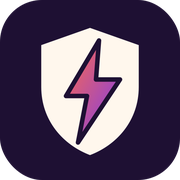
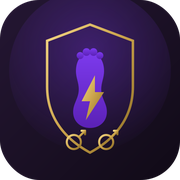
Add files via upload

diff --git a/index.html b/index.html
@@ -20,7 +20,7 @@
 
 <style>
   @import url('https://fonts.googleapis.com/css2?family=Space+Grotesk:wght@500;600;700&family=Inter:wght@400;500;600;700;800&display=swap');
-  html, body { -webkit-text-size-adjust: 100%; overscroll-behavior-y: none; margin: 0; background:#1E1033; }
+  html, body { -webkit-text-size-adjust: 100%; overscroll-behavior-y: none; margin: 0; background:#140C1D; }
   input[type="datetime-local"]::-webkit-calendar-picker-indicator { opacity: 0.7; }
   * { box-sizing: border-box; }
   button { cursor: pointer; font-family: inherit; }
@@ -63,19 +63,28 @@ const C = {
   cream: "#FFF7ED", card: "#FFFFFF",
   slate: "#5C5470", slateLight: "#9891AC", border: "#EDE4D6",
   sun: "#FFD23F", blush: "#FFDCEA", lilac: "#E6D9FF",
+  /* Premium dark/gold jewel-tone palette — used for the app shell and the
+     sign-in / vault screens, echoing the charcoal-and-gold reference mark. */
+  charcoal: "#140C1D", charcoalDeep: "#0D0813", charcoalSoft: "#241833",
+  navy: "#16213E", navyDeep: "#0E1730", plumDeep: "#3B1E63",
+  gold: "#C9A24B", goldLight: "#F4D785", goldDeep: "#8C6C24",
 };
-/* Small confetti of pill/capsule shapes — a nod to the loose pills and
-   contraceptives in the reference photo — used to warm up the entry
-   screens (sign in, vault setup/unlock) instead of a flat dark gradient. */
+/* Small confetti of gold/jewel-tone marks — a bolder, more premium nod to
+   the gender-symbol motif in the reference mark — used on the entry
+   screens (sign in, vault setup/unlock) instead of a flat gradient. */
 function PillConfetti() {
   const pills = [
-    { bg: C.coral, rot: -18 }, { bg: C.violet, rot: 10 }, { bg: C.mint, rot: -6 }, { bg: C.amber, rot: 20 },
+    { bg: "linear-gradient(135deg," + C.goldLight + "," + C.gold + ")", rot: -18 },
+    { bg: "linear-gradient(135deg," + C.violet + "," + C.plumDeep + ")", rot: 10 },
+    { bg: "linear-gradient(135deg," + C.goldLight + "," + C.gold + ")", rot: -6 },
+    { bg: "linear-gradient(135deg," + C.navy + "," + C.navyDeep + ")", rot: 20 },
   ];
   return React.createElement("div", { style: { display: "flex", justifyContent: "center", gap: 10, marginBottom: 18 } },
     pills.map(function (p, i) {
       return React.createElement("div", { key: i, style: {
         width: 30, height: 14, borderRadius: 999, background: p.bg,
-        border: "2px solid " + C.ink, transform: "rotate(" + p.rot + "deg)",
+        border: "1.5px solid " + C.goldDeep, transform: "rotate(" + p.rot + "deg)",
+        boxShadow: "0 2px 6px rgba(0,0,0,0.4)",
       } });
     }));
 }
@@ -259,12 +268,12 @@ function AuthScreen() {
     finally { setBusy(false); }
   };
 
-  return React.createElement("div", { style: { minHeight: "100vh", display: "flex", flexDirection: "column", alignItems: "center", justifyContent: "center", padding: "0 24px", background: "linear-gradient(165deg, " + C.sun + " 0%, " + C.blush + " 45%, " + C.cream + " 100%)", fontFamily: FONT_BODY } },
+  return React.createElement("div", { style: { minHeight: "100vh", display: "flex", flexDirection: "column", alignItems: "center", justifyContent: "center", padding: "0 24px", background: "linear-gradient(150deg, " + C.charcoal + " 0%, " + C.plumDeep + " 55%, " + C.navyDeep + " 100%)", fontFamily: FONT_BODY } },
     React.createElement("div", { style: { width: "100%", maxWidth: MAX_W } },
       React.createElement("div", { style: { textAlign: "center", marginBottom: 24 } },
-        React.createElement("img", { src: "icon-192.png", alt: "AuraShield", style: { width: 76, height: 76, borderRadius: 22, margin: "0 auto 16px", display: "block", border: "3px solid " + C.ink, boxShadow: "4px 4px 0px " + C.ink } }),
-        React.createElement("div", { style: { fontFamily: FONT_DISPLAY, color: C.ink, fontSize: 30, fontWeight: 700 } }, "AuraShield"),
-        React.createElement("div", { style: { fontSize: 14, color: C.slate, marginTop: 8, fontWeight: 600 } }, mode === "signin" ? "Welcome back — let's go" : "Let's set up your private space")),
+        React.createElement("img", { src: "icon-192.png", alt: "AuraShield", style: { width: 76, height: 76, borderRadius: 22, margin: "0 auto 16px", display: "block", border: "3px solid " + C.gold, boxShadow: "0 6px 20px rgba(0,0,0,0.5)" } }),
+        React.createElement("div", { style: { fontFamily: FONT_DISPLAY, color: "#fff", fontSize: 30, fontWeight: 700, letterSpacing: 0.5 } }, "AuraShield"),
+        React.createElement("div", { style: { fontSize: 14, color: C.goldLight, marginTop: 8, fontWeight: 600 } }, mode === "signin" ? "Welcome back — let's go" : "Let's set up your private space")),
       React.createElement(PillConfetti, null),
       React.createElement(Card, { style: { padding: 22 } },
         React.createElement("div", { style: { fontSize: 12, fontWeight: 800, color: C.slate, marginBottom: 6 } }, "EMAIL"),
@@ -274,7 +283,7 @@ function AuthScreen() {
         React.createElement(PassInput, { value: password, onChange: function (e) { setPassword(e.target.value); }, placeholder: "At least 6 characters" }),
         error && React.createElement("div", { style: { fontSize: 13, color: C.coralDeep, marginBottom: 12, fontWeight: 700 } }, error),
         notice && React.createElement("div", { style: { fontSize: 13, color: "#00875F", marginBottom: 12, fontWeight: 700 } }, notice),
-        React.createElement(PrimaryButton, { onClick: submit, disabled: busy || !email || password.length < 6, style: { background: C.coral, border: "2.5px solid " + C.ink, marginTop: 4 } },
+        React.createElement(PrimaryButton, { onClick: submit, disabled: busy || !email || password.length < 6, style: { background: "linear-gradient(135deg," + C.goldLight + "," + C.gold + ")", color: C.charcoalDeep, border: "2.5px solid " + C.goldDeep, marginTop: 4, boxShadow: "0 4px 14px rgba(201,162,75,0.35)" } },
           busy ? "One sec…" : mode === "signin" ? "Sign in" : "Create account"),
         React.createElement("button", { onClick: function () { setMode(mode === "signin" ? "signup" : "signin"); setError(""); setNotice(""); }, style: { width: "100%", textAlign: "center", fontSize: 13, color: C.violetDeep, marginTop: 16, background: "none", border: "none", fontWeight: 700 } },
           mode === "signin" ? "New here? Create an account" : "Already have an account? Sign in"))));
@@ -295,13 +304,13 @@ function VaultSetupScreen(props) {
     try { await props.onCreated(p1); }
     catch (e) { setError(e.message || "Couldn't set up your vault."); setBusy(false); }
   };
-  return React.createElement("div", { style: { minHeight: "100vh", display: "flex", flexDirection: "column", alignItems: "center", justifyContent: "center", padding: "0 24px", background: "linear-gradient(165deg, " + C.lilac + " 0%, " + C.blush + " 55%, " + C.cream + " 100%)", fontFamily: FONT_BODY } },
+  return React.createElement("div", { style: { minHeight: "100vh", display: "flex", flexDirection: "column", alignItems: "center", justifyContent: "center", padding: "0 24px", background: "linear-gradient(150deg, " + C.charcoal + " 0%, " + C.plumDeep + " 55%, " + C.navyDeep + " 100%)", fontFamily: FONT_BODY } },
     React.createElement("div", { style: { width: "100%", maxWidth: MAX_W } },
       React.createElement("div", { style: { textAlign: "center", marginBottom: 20 } },
-        React.createElement("div", { style: { width: 64, height: 64, borderRadius: 18, background: C.coral, display: "flex", alignItems: "center", justifyContent: "center", margin: "0 auto 16px", border: "2.5px solid " + C.ink, boxShadow: "4px 4px 0px " + C.ink } },
-          React.createElement(Icon, { name: "key", size: 28, color: "#fff" })),
-        React.createElement("div", { style: { fontFamily: FONT_DISPLAY, color: C.ink, fontSize: 24, fontWeight: 700 } }, "Lock it down"),
-        React.createElement("div", { style: { fontSize: 14, color: C.slate, marginTop: 10, lineHeight: 1.5, padding: "0 4px", fontWeight: 500 } }, "This passphrase is different from your login. It encrypts everything right here on your device — nobody else, not even the person who built this app, can read your data without it.")),
+        React.createElement("div", { style: { width: 64, height: 64, borderRadius: 18, background: "linear-gradient(135deg," + C.goldLight + "," + C.gold + ")", display: "flex", alignItems: "center", justifyContent: "center", margin: "0 auto 16px", border: "2.5px solid " + C.goldDeep, boxShadow: "0 6px 18px rgba(0,0,0,0.45)" } },
+          React.createElement(Icon, { name: "key", size: 28, color: C.charcoalDeep })),
+        React.createElement("div", { style: { fontFamily: FONT_DISPLAY, color: "#fff", fontSize: 24, fontWeight: 700 } }, "Lock it down"),
+        React.createElement("div", { style: { fontSize: 14, color: C.goldLight, marginTop: 10, lineHeight: 1.5, padding: "0 4px", fontWeight: 500 } }, "This passphrase is different from your login. It encrypts everything right here on your device — nobody else, not even the person who built this app, can read your data without it.")),
       React.createElement(Card, { style: { padding: 22 } },
         React.createElement("div", { style: { fontSize: 12, fontWeight: 800, color: C.slate, marginBottom: 6 } }, "VAULT PASSPHRASE (8+ CHARS)"),
         React.createElement(PassInput, { value: p1, onChange: function (e) { setP1(e.target.value); }, placeholder: "Something only you know" }),
@@ -311,21 +320,21 @@ function VaultSetupScreen(props) {
           React.createElement("span", { style: { width: 22, height: 22, minWidth: 22, borderRadius: 6, background: ack ? C.mint : "#fff", border: "2px solid " + (ack ? C.mint : C.border), display: "flex", alignItems: "center", justifyContent: "center", marginTop: 1 } }, ack && React.createElement(Icon, { name: "check", size: 13, color: "#fff" })),
           React.createElement("span", { style: { fontSize: 12, color: C.slate, lineHeight: 1.5, fontWeight: 500 } }, "I understand there's no reset for this. If I forget it, my data is gone for good.")),
         error && React.createElement("div", { style: { fontSize: 13, color: C.coralDeep, marginBottom: 12, fontWeight: 700 } }, error),
-        React.createElement(PrimaryButton, { onClick: submit, disabled: !canSubmit, style: { background: C.mint, border: "2.5px solid " + C.ink } }, busy ? "Setting up…" : "Create my vault"))));
+        React.createElement(PrimaryButton, { onClick: submit, disabled: !canSubmit, style: { background: "linear-gradient(135deg," + C.goldLight + "," + C.gold + ")", color: C.charcoalDeep, border: "2.5px solid " + C.goldDeep, boxShadow: "0 4px 14px rgba(201,162,75,0.35)" } }, busy ? "Setting up…" : "Create my vault"))));
 }
 function VaultUnlockScreen(props) {
   const [p, setP] = useState("");
-  return React.createElement("div", { style: { minHeight: "100vh", display: "flex", flexDirection: "column", alignItems: "center", justifyContent: "center", padding: "0 24px", background: "linear-gradient(165deg, " + C.lilac + " 0%, " + C.blush + " 55%, " + C.cream + " 100%)", fontFamily: FONT_BODY } },
+  return React.createElement("div", { style: { minHeight: "100vh", display: "flex", flexDirection: "column", alignItems: "center", justifyContent: "center", padding: "0 24px", background: "linear-gradient(150deg, " + C.charcoal + " 0%, " + C.plumDeep + " 55%, " + C.navyDeep + " 100%)", fontFamily: FONT_BODY } },
     React.createElement("div", { style: { width: "100%", maxWidth: MAX_W } },
       React.createElement("div", { style: { textAlign: "center", marginBottom: 24 } },
-        React.createElement("div", { style: { width: 64, height: 64, borderRadius: 18, background: C.violet, display: "flex", alignItems: "center", justifyContent: "center", margin: "0 auto 16px", border: "2.5px solid " + C.ink, boxShadow: "4px 4px 0px " + C.ink } },
-          React.createElement(Icon, { name: "key", size: 28, color: "#fff" })),
-        React.createElement("div", { style: { fontFamily: FONT_DISPLAY, color: C.ink, fontSize: 24, fontWeight: 700 } }, "Welcome back"),
-        React.createElement("div", { style: { fontSize: 14, color: C.slate, marginTop: 8, fontWeight: 500 } }, "Enter your vault passphrase to decrypt on this device.")),
+        React.createElement("div", { style: { width: 64, height: 64, borderRadius: 18, background: "linear-gradient(135deg," + C.goldLight + "," + C.gold + ")", display: "flex", alignItems: "center", justifyContent: "center", margin: "0 auto 16px", border: "2.5px solid " + C.goldDeep, boxShadow: "0 6px 18px rgba(0,0,0,0.45)" } },
+          React.createElement(Icon, { name: "key", size: 28, color: C.charcoalDeep })),
+        React.createElement("div", { style: { fontFamily: FONT_DISPLAY, color: "#fff", fontSize: 24, fontWeight: 700 } }, "Welcome back"),
+        React.createElement("div", { style: { fontSize: 14, color: C.goldLight, marginTop: 8, fontWeight: 500 } }, "Enter your vault passphrase to decrypt on this device.")),
       React.createElement(Card, { style: { padding: 22 } },
         React.createElement(PassInput, { value: p, onChange: function (e) { setP(e.target.value); }, placeholder: "Vault passphrase" }),
         props.error && React.createElement("div", { style: { fontSize: 13, color: C.coralDeep, marginBottom: 12, fontWeight: 700 } }, "Incorrect passphrase."),
-        React.createElement(PrimaryButton, { onClick: function () { props.onUnlock(p); }, disabled: !p || props.busy, style: { background: C.violet, border: "2.5px solid " + C.ink } }, props.busy ? "Unlocking…" : "Unlock"))));
+        React.createElement(PrimaryButton, { onClick: function () { props.onUnlock(p); }, disabled: !p || props.busy, style: { background: "linear-gradient(135deg," + C.goldLight + "," + C.gold + ")", color: C.charcoalDeep, border: "2.5px solid " + C.goldDeep, boxShadow: "0 4px 14px rgba(201,162,75,0.35)" } }, props.busy ? "Unlocking…" : "Unlock"))));
 }
 
 /* ---------------------------------------------------------
@@ -403,6 +412,7 @@ function Dashboard(props) {
   const [pinDraft, setPinDraft] = useState("");
   const [historyOpen, setHistoryOpen] = useState(false);
   const [tab, setTab] = useState("home");
+  const [syncError, setSyncError] = useState("");
 
   useEffect(function () {
     (async function () {
@@ -412,32 +422,78 @@ function Dashboard(props) {
     })();
   }, [userId]);
 
+  // Retries a Supabase write a few times (network hiccups, a token mid
+  // refresh, etc. are transient) before giving up, so a log doesn't
+  // silently fail to reach your account just because of a bad moment of
+  // connectivity — which is what used to make entries look saved in the
+  // app but then not actually be there next time you opened it.
+  const withRetry = useCallback(async function (op, attempts) {
+    const max = attempts || 3;
+    let last = null;
+    for (let i = 0; i < max; i++) {
+      last = await op();
+      if (!last.error) return last;
+      if (i < max - 1) await new Promise(function (res) { setTimeout(res, 600 * (i + 1)); });
+    }
+    return last;
+  }, []);
+
   const persistSettings = useCallback(async function (next) {
+    const prev = settings;
     setSettings(next);
     const enc2 = await encryptJSON(vaultKey, next);
-    await sb.from("settings_enc").upsert({ user_id: userId, ct: enc2.ct, iv: enc2.iv, updated_at: new Date().toISOString() });
-  }, [userId, vaultKey]);
+    const r = await withRetry(function () {
+      return sb.from("settings_enc").upsert({ user_id: userId, ct: enc2.ct, iv: enc2.iv, updated_at: new Date().toISOString() });
+    });
+    if (r.error) {
+      setSettings(prev);
+      setSyncError("Couldn't save that setting to your account — check your connection and try again.");
+    }
+  }, [userId, vaultKey, settings, withRetry]);
 
   const addDose = useCallback(async function (dose) {
     const optimistic = Object.assign({}, dose, { id: "temp-" + Date.now() });
     setDoses(function (d) { return [optimistic].concat(d); });
     const enc2 = await encryptJSON(vaultKey, dose);
-    const r = await sb.from("doses_enc").insert({ user_id: userId, ct: enc2.ct, iv: enc2.iv }).select().single();
-    if (r.data) setDoses(function (d) { return d.map(function (x) { return x.id === optimistic.id ? Object.assign({}, dose, { id: r.data.id }) : x; }); });
-  }, [userId, vaultKey]);
+    const r = await withRetry(function () {
+      return sb.from("doses_enc").insert({ user_id: userId, ct: enc2.ct, iv: enc2.iv }).select().single();
+    });
+    if (r.data) {
+      setDoses(function (d) { return d.map(function (x) { return x.id === optimistic.id ? Object.assign({}, dose, { id: r.data.id }) : x; }); });
+    } else {
+      // The write never actually reached your account — pulling the
+      // optimistic entry back out rather than leaving a dose logged on
+      // screen that isn't really saved anywhere.
+      setDoses(function (d) { return d.filter(function (x) { return x.id !== optimistic.id; }); });
+      setSyncError("That dose didn't save — check your connection and log it again.");
+    }
+  }, [userId, vaultKey, withRetry]);
 
   const addEncounter = useCallback(async function (entry) {
     const optimistic = Object.assign({}, entry, { id: "temp-" + Date.now() });
     setEncounters(function (e) { return [optimistic].concat(e); });
     const enc2 = await encryptJSON(vaultKey, entry);
-    const r = await sb.from("encounters_enc").insert({ user_id: userId, ct: enc2.ct, iv: enc2.iv }).select().single();
-    if (r.data) setEncounters(function (e) { return e.map(function (x) { return x.id === optimistic.id ? Object.assign({}, entry, { id: r.data.id }) : x; }); });
-  }, [userId, vaultKey]);
+    const r = await withRetry(function () {
+      return sb.from("encounters_enc").insert({ user_id: userId, ct: enc2.ct, iv: enc2.iv }).select().single();
+    });
+    if (r.data) {
+      setEncounters(function (e) { return e.map(function (x) { return x.id === optimistic.id ? Object.assign({}, entry, { id: r.data.id }) : x; }); });
+    } else {
+      setEncounters(function (e) { return e.filter(function (x) { return x.id !== optimistic.id; }); });
+      setSyncError("That entry didn't save — check your connection and log it again.");
+    }
+  }, [userId, vaultKey, withRetry]);
 
   const removeEncounter = useCallback(async function (id) {
+    const wasRemoved = encounters.find(function (x) { return x.id === id; });
     setEncounters(function (e) { return e.filter(function (x) { return x.id !== id; }); });
-    if (String(id).indexOf("temp-") !== 0) await sb.from("encounters_enc").delete().eq("id", id);
-  }, []);
+    if (String(id).indexOf("temp-") === 0) return;
+    const r = await withRetry(function () { return sb.from("encounters_enc").delete().eq("id", id); });
+    if (r.error && wasRemoved) {
+      setEncounters(function (e) { return [wasRemoved].concat(e); });
+      setSyncError("Couldn't delete that entry — check your connection and try again.");
+    }
+  }, [withRetry, encounters]);
 
   if (loading) return React.createElement("div", { style: { display: "flex", alignItems: "center", justifyContent: "center", minHeight: "100vh", background: C.cream, fontFamily: FONT_BODY } }, React.createElement("div", { style: { color: C.slate, fontSize: 14, fontWeight: 600 } }, "Decrypting…"));
   if (locked) return React.createElement(PinScreen, { title: "Welcome back", sub: "Enter your PIN to continue", error: pinError, onSubmit: function (val) { if (val === settings.pin) { setLocked(false); setPinError(false); } else setPinError(true); } });
@@ -485,6 +541,10 @@ function Dashboard(props) {
         settings.pinEnabled && React.createElement("button", { onClick: function () { setLocked(true); }, style: { width: 42, height: 42, borderRadius: 14, background: "#fff", border: "2px solid " + C.ink, display: "flex", alignItems: "center", justifyContent: "center" } }, React.createElement(Icon, { name: "lock", size: 18, color: C.ink }))),
 
       React.createElement("div", { style: { padding: "0 20px", paddingBottom: NAV_H + 28 } },
+        syncError && React.createElement(Card, { style: { padding: 14, background: C.pinkLight, border: "2.5px solid " + C.pink, boxShadow: "5px 5px 0px " + C.pink, marginBottom: 20, display: "flex", alignItems: "center", gap: 10 } },
+          React.createElement(Icon, { name: "alert-triangle", size: 18, color: C.pink }),
+          React.createElement("div", { style: { fontSize: 12.5, color: C.ink, fontWeight: 700, flex: 1 } }, syncError),
+          React.createElement("button", { onClick: function () { setSyncError(""); }, style: { background: "none", border: "none", padding: 4 } }, React.createElement(Icon, { name: "x", size: 16, color: C.ink }))),
         tab === "home" && React.createElement(React.Fragment, null,
           React.createElement(PepBanners, null),
           React.createElement(Card, { style: { padding: 28, textAlign: "center", marginBottom: 20, background: "linear-gradient(160deg, #fff 0%, " + meta.bg + " 100%)" } },
@@ -687,7 +747,7 @@ function App() {
     } catch (e) { setVaultError("bad"); } finally { setVaultBusy(false); }
   };
 
-  if (session === undefined || (session && vaultStage === "checking")) return React.createElement("div", { style: { display: "flex", alignItems: "center", justifyContent: "center", minHeight: "100vh", background: "linear-gradient(165deg, " + C.sun + " 0%, " + C.blush + " 45%, " + C.cream + " 100%)" } }, React.createElement("div", { style: { color: C.slate, fontSize: 14, fontWeight: 700 } }, "Loading…"));
+  if (session === undefined || (session && vaultStage === "checking")) return React.createElement("div", { style: { display: "flex", alignItems: "center", justifyContent: "center", minHeight: "100vh", background: "linear-gradient(150deg, " + C.charcoal + " 0%, " + C.plumDeep + " 55%, " + C.navyDeep + " 100%)" } }, React.createElement("div", { style: { color: C.goldLight, fontSize: 14, fontWeight: 700 } }, "Loading…"));
   if (!session) return React.createElement(AuthScreen, null);
   if (vaultStage === "setup") return React.createElement(VaultSetupScreen, { onCreated: createVault });
   if (vaultStage === "unlock") return React.createElement(VaultUnlockScreen, { onUnlock: unlockVault, error: vaultError, busy: vaultBusy });

diff --git a/sw.js b/sw.js
@@ -1,6 +1,6 @@
 // Bump CACHE any time you change index.html/manifest/icons and want every
 // installed copy to pick up the new version on next launch.
-const CACHE = "aurashield-v6";
+const CACHE = "aurashield-v7";
 const ASSETS = [
   "./",
   "./index.html",
